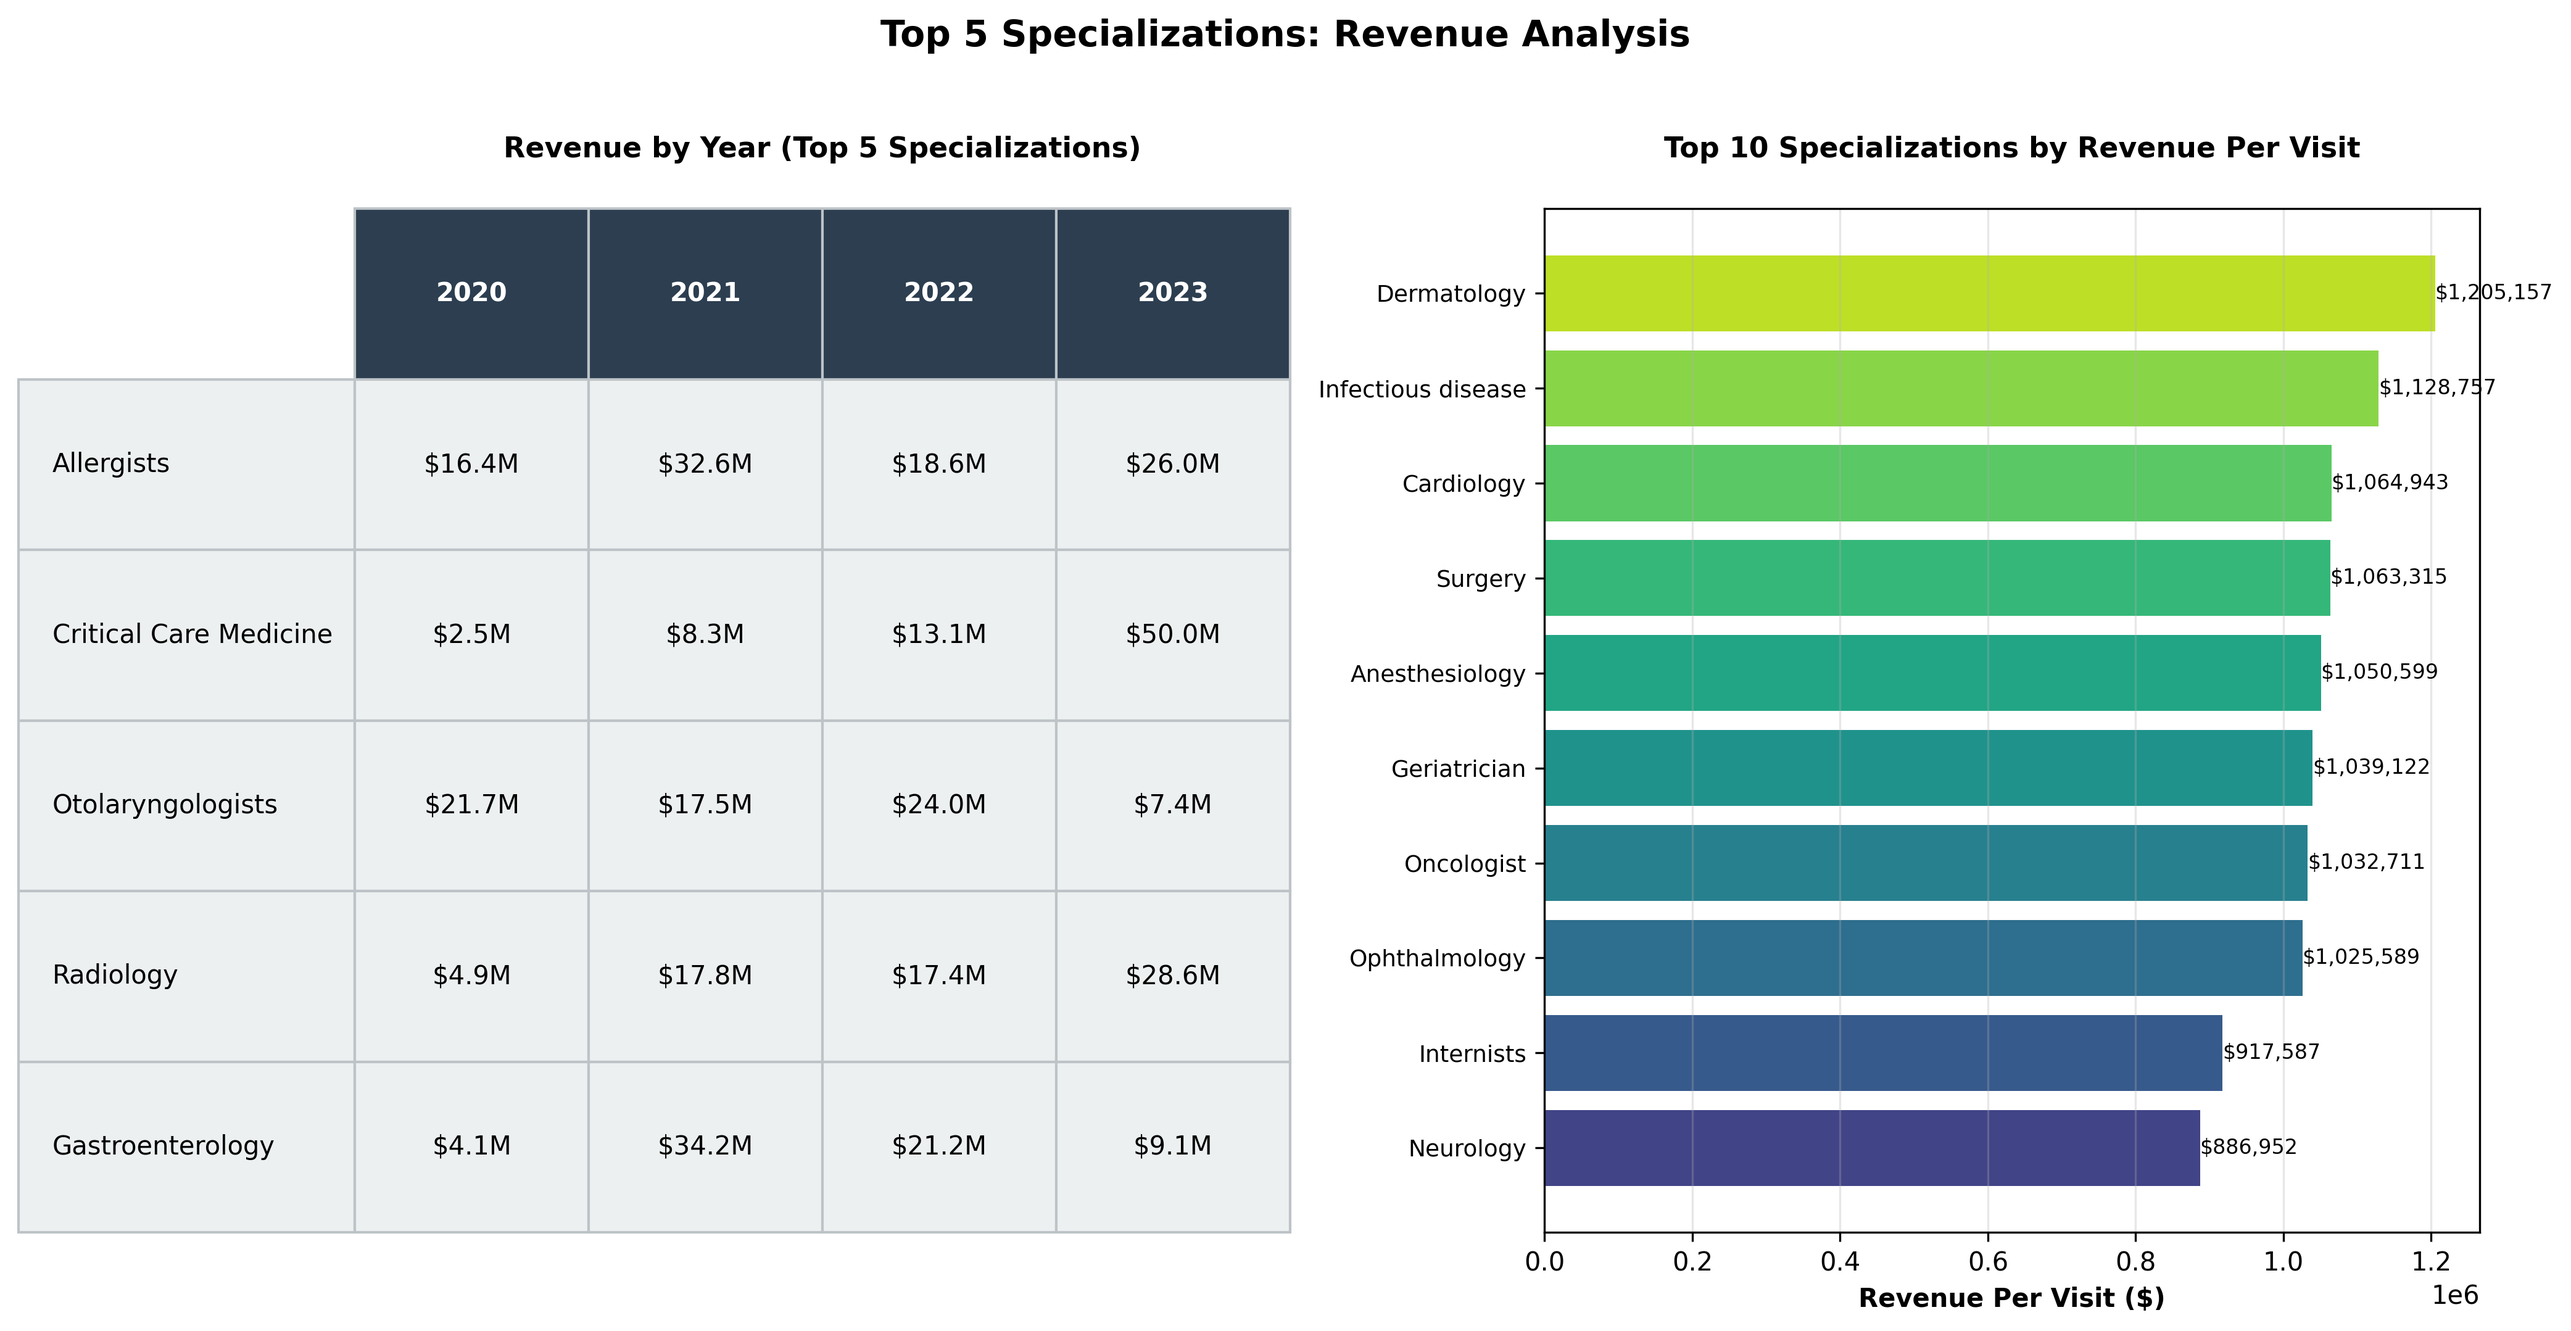
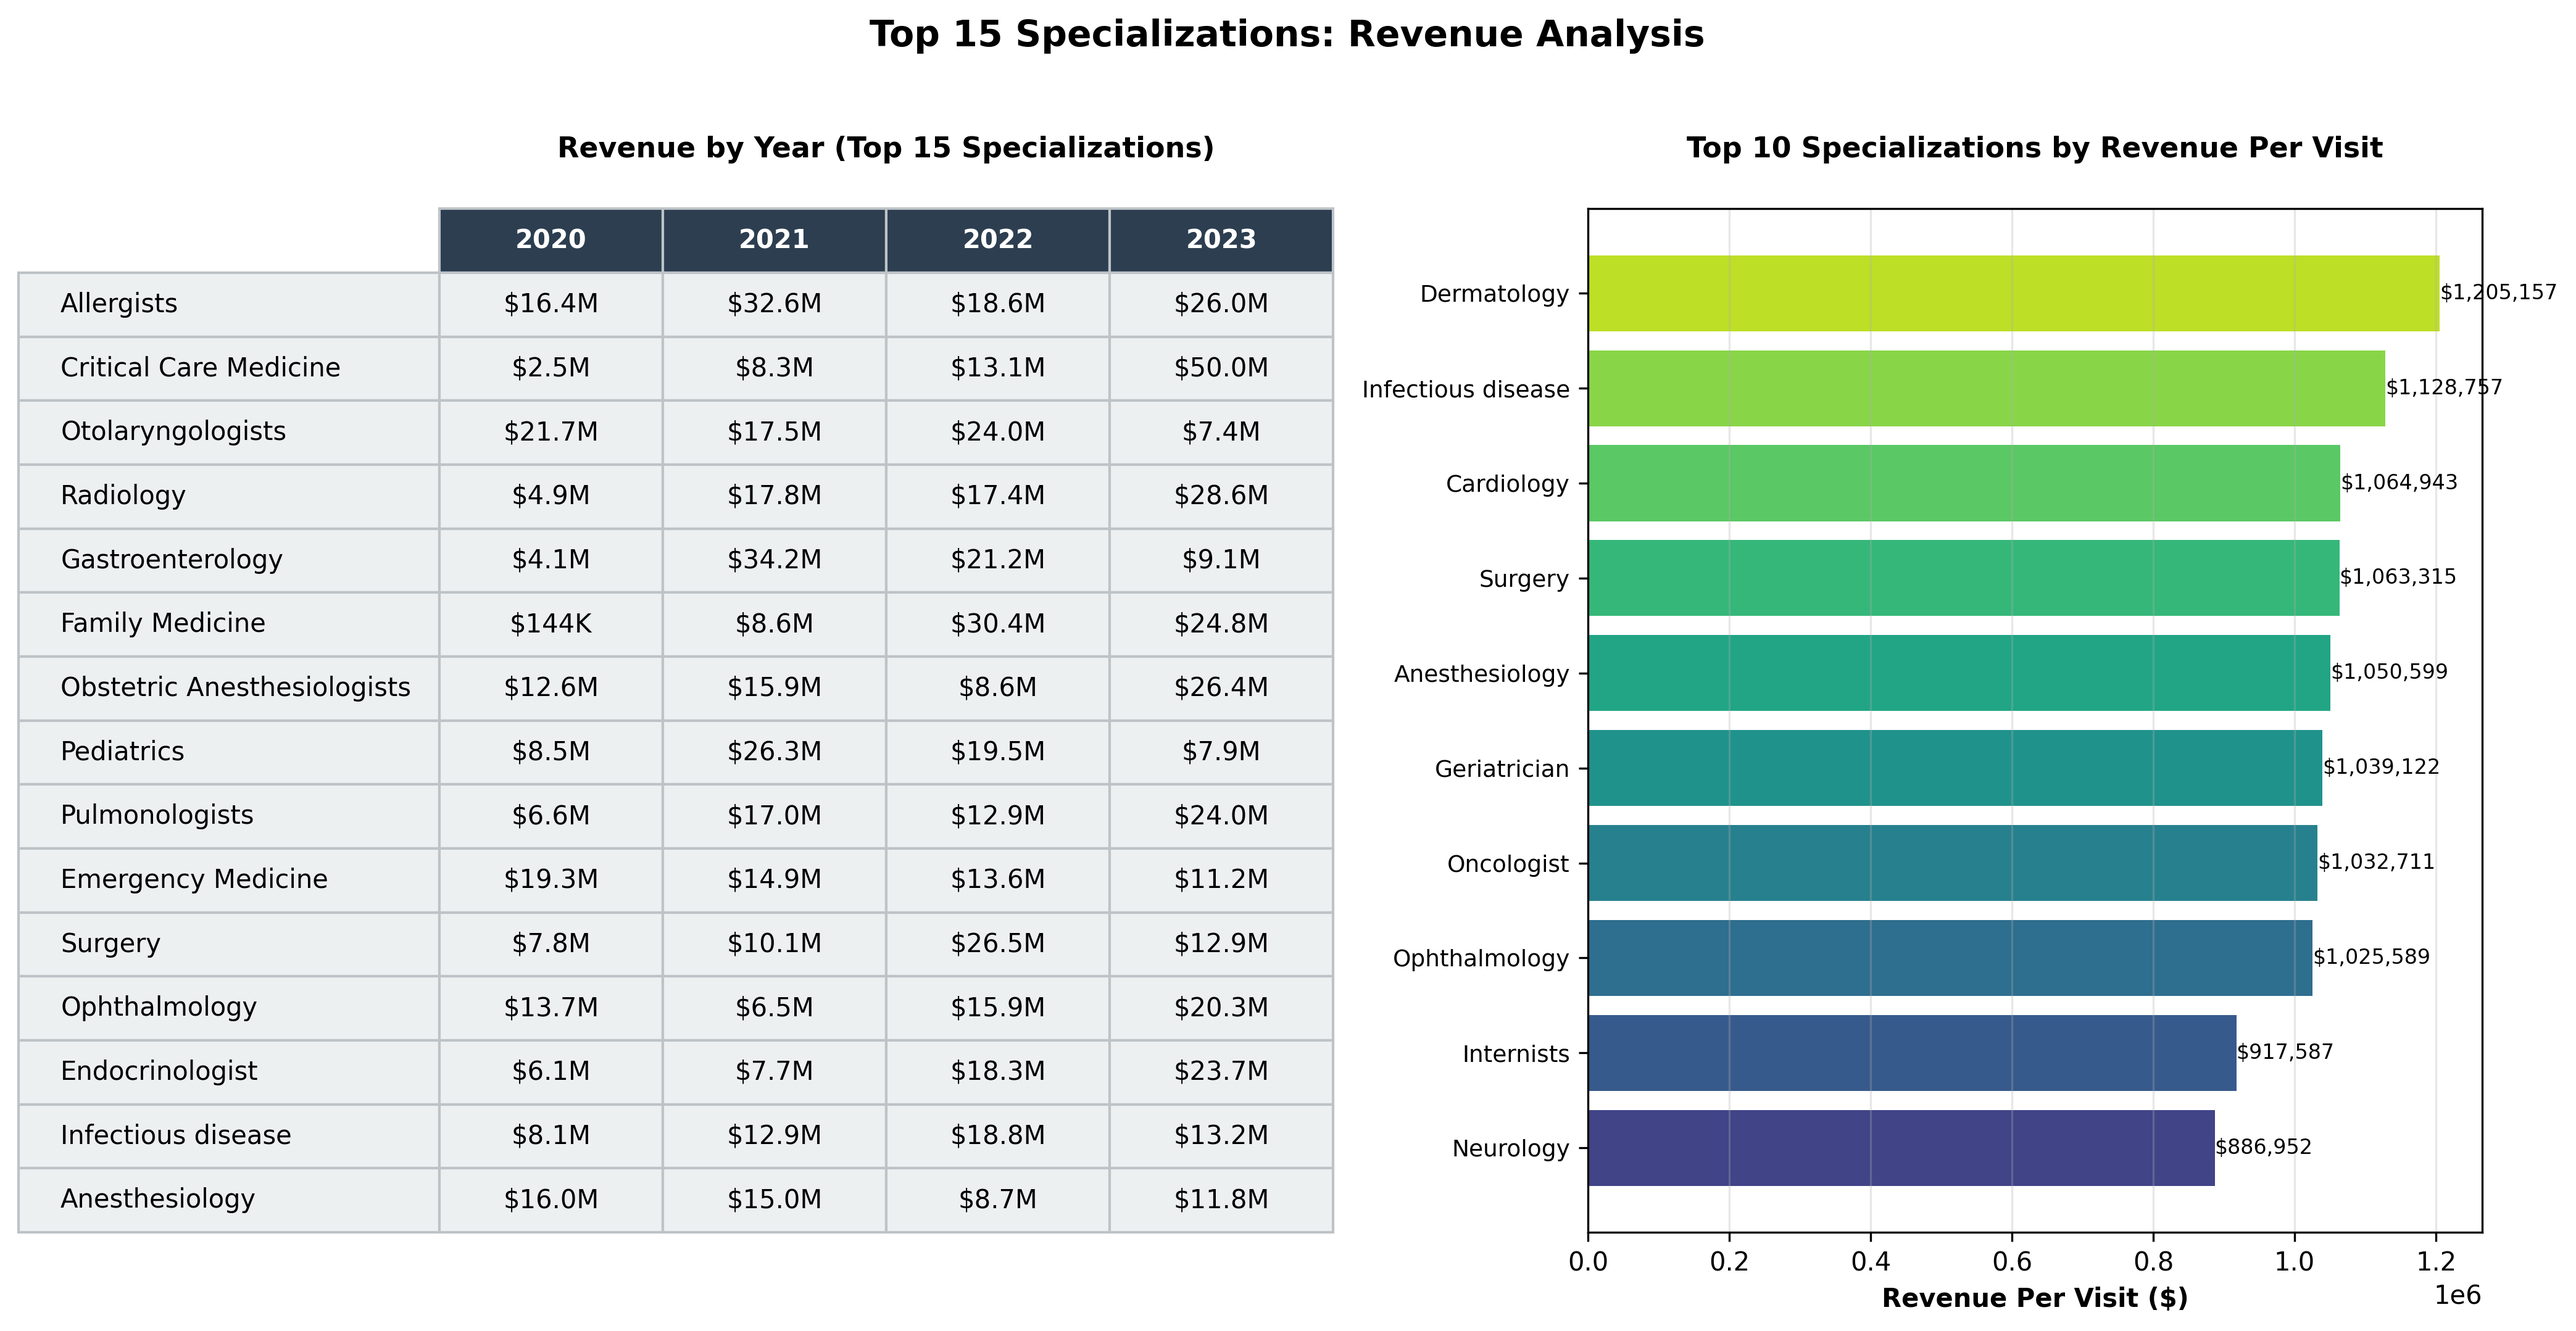
update on revenue

diff --git a/dataanalysis_health.py b/dataanalysis_health.py
@@ -301,14 +301,14 @@ plt.show()
 
 # Specializations Revenue Yearly Trend and RPV
 fig, axes = plt.subplots(1, 2, figsize=(14, 7))
-fig.suptitle('Top 5 Specializations: Revenue Analysis', fontsize=14, fontweight='bold', y=1.02)
+fig.suptitle('Top 15 Specializations: Revenue Analysis', fontsize=14, fontweight='bold', y=1.02)
 
-# Get top 5 specializations by total revenue
-top_5_specialties = appointments_procedure_cln.groupby('Specialization')['Amount'].sum().nlargest(5).index.tolist()
+# Get top 15 specializations by total revenue
+top_15_specialties = appointments_procedure_cln.groupby('Specialization')['Amount'].sum().nlargest(15).index.tolist()
 
 print(appointments_procedure_cln.columns.tolist())
 # Create pivot table for revenue by specialization and year 
-revenue_pivot = appointments_procedure_cln[appointments_procedure_cln['Specialization'].isin(top_5_specialties)].pivot_table(
+revenue_pivot = appointments_procedure_cln[appointments_procedure_cln['Specialization'].isin(top_15_specialties)].pivot_table(
     index='Specialization',
     columns='Year',
     values='Amount',
@@ -362,7 +362,7 @@ for (row, col), cell in revenue_table.get_celld().items():
         cell.set_facecolor('#ecf0f1')
     cell.set_edgecolor('#bdc3c7')
 
-axes[0].set_title('Revenue by Year (Top 5 Specializations)', 
+axes[0].set_title('Revenue by Year (Top 15 Specializations)', 
                   fontsize=11, fontweight='bold', pad=20)
 
 # Revenue Per Visit (Bar Chart)
